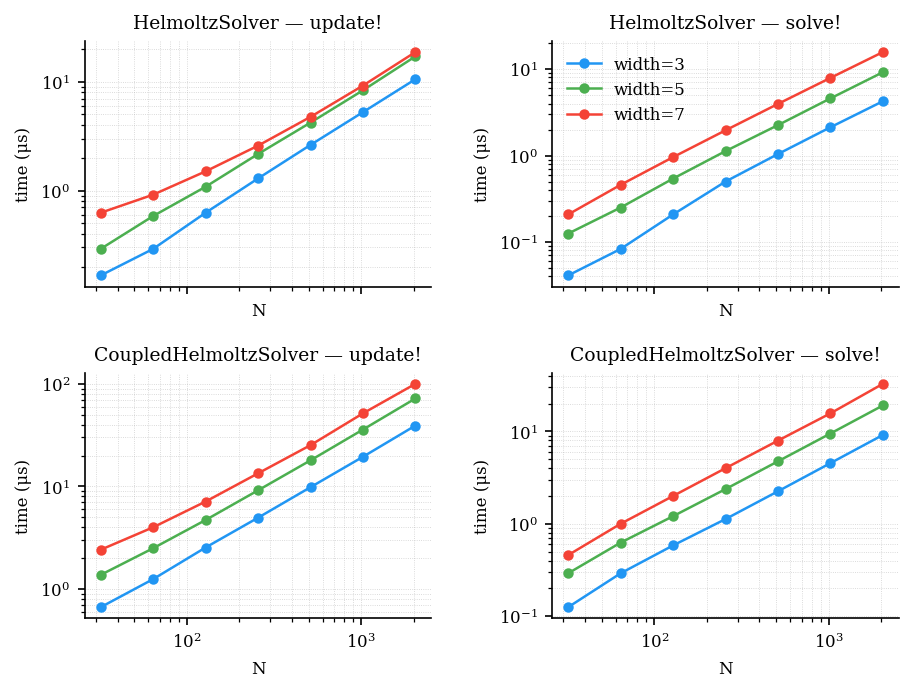
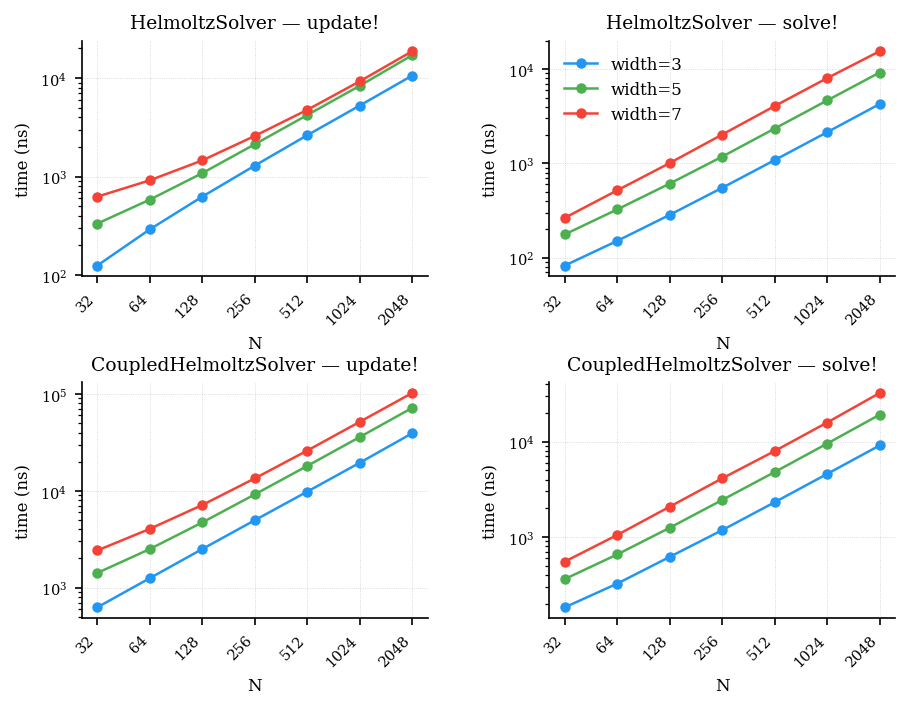
Update benchmark figure: ns units, powers-of-2 x-axis ticks on all panels, machine specs

diff --git a/README.md b/README.md
@@ -1,6 +1,14 @@
-# FDHelmoltzSolver.jl
+<p align="center">
+  <img src="assets/logo.png" alt="FDHelmoltzSolver.jl logo" width="760">
+</p>
 
-Fast in-place solvers for one-dimensional Helmholtz boundary value problems discretised with high-order banded finite-difference operators from [FDGrids.jl](https://github.com/gasagna/FDGrids.jl).
+<h1 align="center">FDHelmoltzSolver.jl</h1>
+
+<p align="center">
+  <strong>Fast in-place solvers for one-dimensional Helmholtz boundary value problems.</strong><br>
+  Built on high-order banded finite-difference operators from
+  <a href="https://github.com/gasagna/FDGrids.jl">FDGrids.jl</a>.
+</p>
 
 ## Solvers
 
@@ -53,6 +61,6 @@ solve!(solver, r)                      # r overwritten with v
 
 Both solvers are allocation-free after construction. `update!` assembles and LU-factorises in O(N·W²) time; `solve!` runs in O(N·W) time, where N is the grid size and W the stencil half-width. The system matrix coefficients are stored in the banded layout of `DiffMatrix` and factorised by the no-pivot banded LU routines in FDGrids.jl.
 
-The figure below shows minimum wall-clock time (via BenchmarkTools) across grid sizes N = 32–2048 and stencil widths W = 3, 5, 7. Both operations scale linearly with N.
+The figure below shows minimum wall-clock time in nanoseconds (via BenchmarkTools) across grid sizes N = 32–2048 and stencil widths W = 3, 5, 7. Both operations scale linearly with N. Benchmarks run on an Apple M5, 16 GB RAM, Julia 1.12.6.
 
 ![benchmark](assets/benchmark.png)